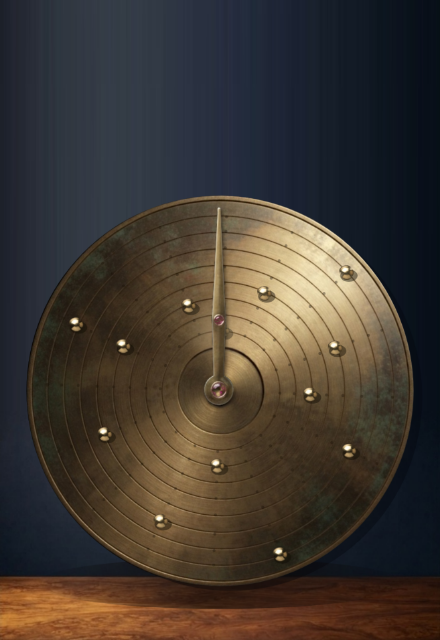
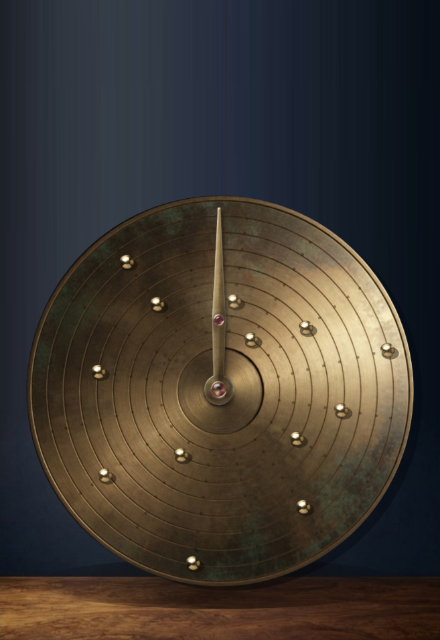
musebox: the walnut gives way to the brass, and the card with it
Her call on a note of mine: the table was the warmest and brightest thing in the
frame and the disc is the subject, so it pulled the eye down and forward -- the
same fault she named herself on the white rabbit. Fifteen per cent of the
saturation and twelve of the lift off the band below the table's own front edge,
cooled a shade, the first two rows ramped so the edge gains no line of its own.
Baked into the picture rather than done every frame. The card is reshot off the
piece so the shelf and the piece agree.

diff --git a/CLAUDE.md b/CLAUDE.md
@@ -529,7 +529,12 @@ follow. Measured: 1100x974 with a 960px picture on a desktop, 1100x1407 with a 3
 phone, and the disc goes from 55% of the picture's width to 88%. The table is never distorted — always
 the same scale as the width — and the wall is drawn at its own scale with its top few rows stretched
 to fill what is left above it, since stretching the whole gradient five times over would band it. A
-3in phone and a phone sideways scroll, the answer she took for kaleidoscope and storm.<br>**The card
+3in phone and a phone sideways scroll, the answer she took for kaleidoscope and storm.<br>**The table was toned down**, her call on a note of mine: it was the warmest and
+brightest thing in the frame and the disc is the subject, so it pulled the eye down and forward — the
+same fault she named herself on musebox's white rabbit. Fifteen per cent of the saturation and twelve
+of the lift come off the band below the table's front edge, and it is cooled a shade; the first two
+rows are ramped so the edge does not gain a line of its own. Baked into `museroom.jpg` rather than
+done per frame.<br>**The card
 was reshot** off the rebuilt piece and **cropped** to 440x640 rather than squeezed into it — squashing
 a taller frame into the card makes the disc oval again, which is the one thing the rebuild exists to
 avoid.<br>**The sound was not touched and neither were the controls**, her call: *"leave off the
